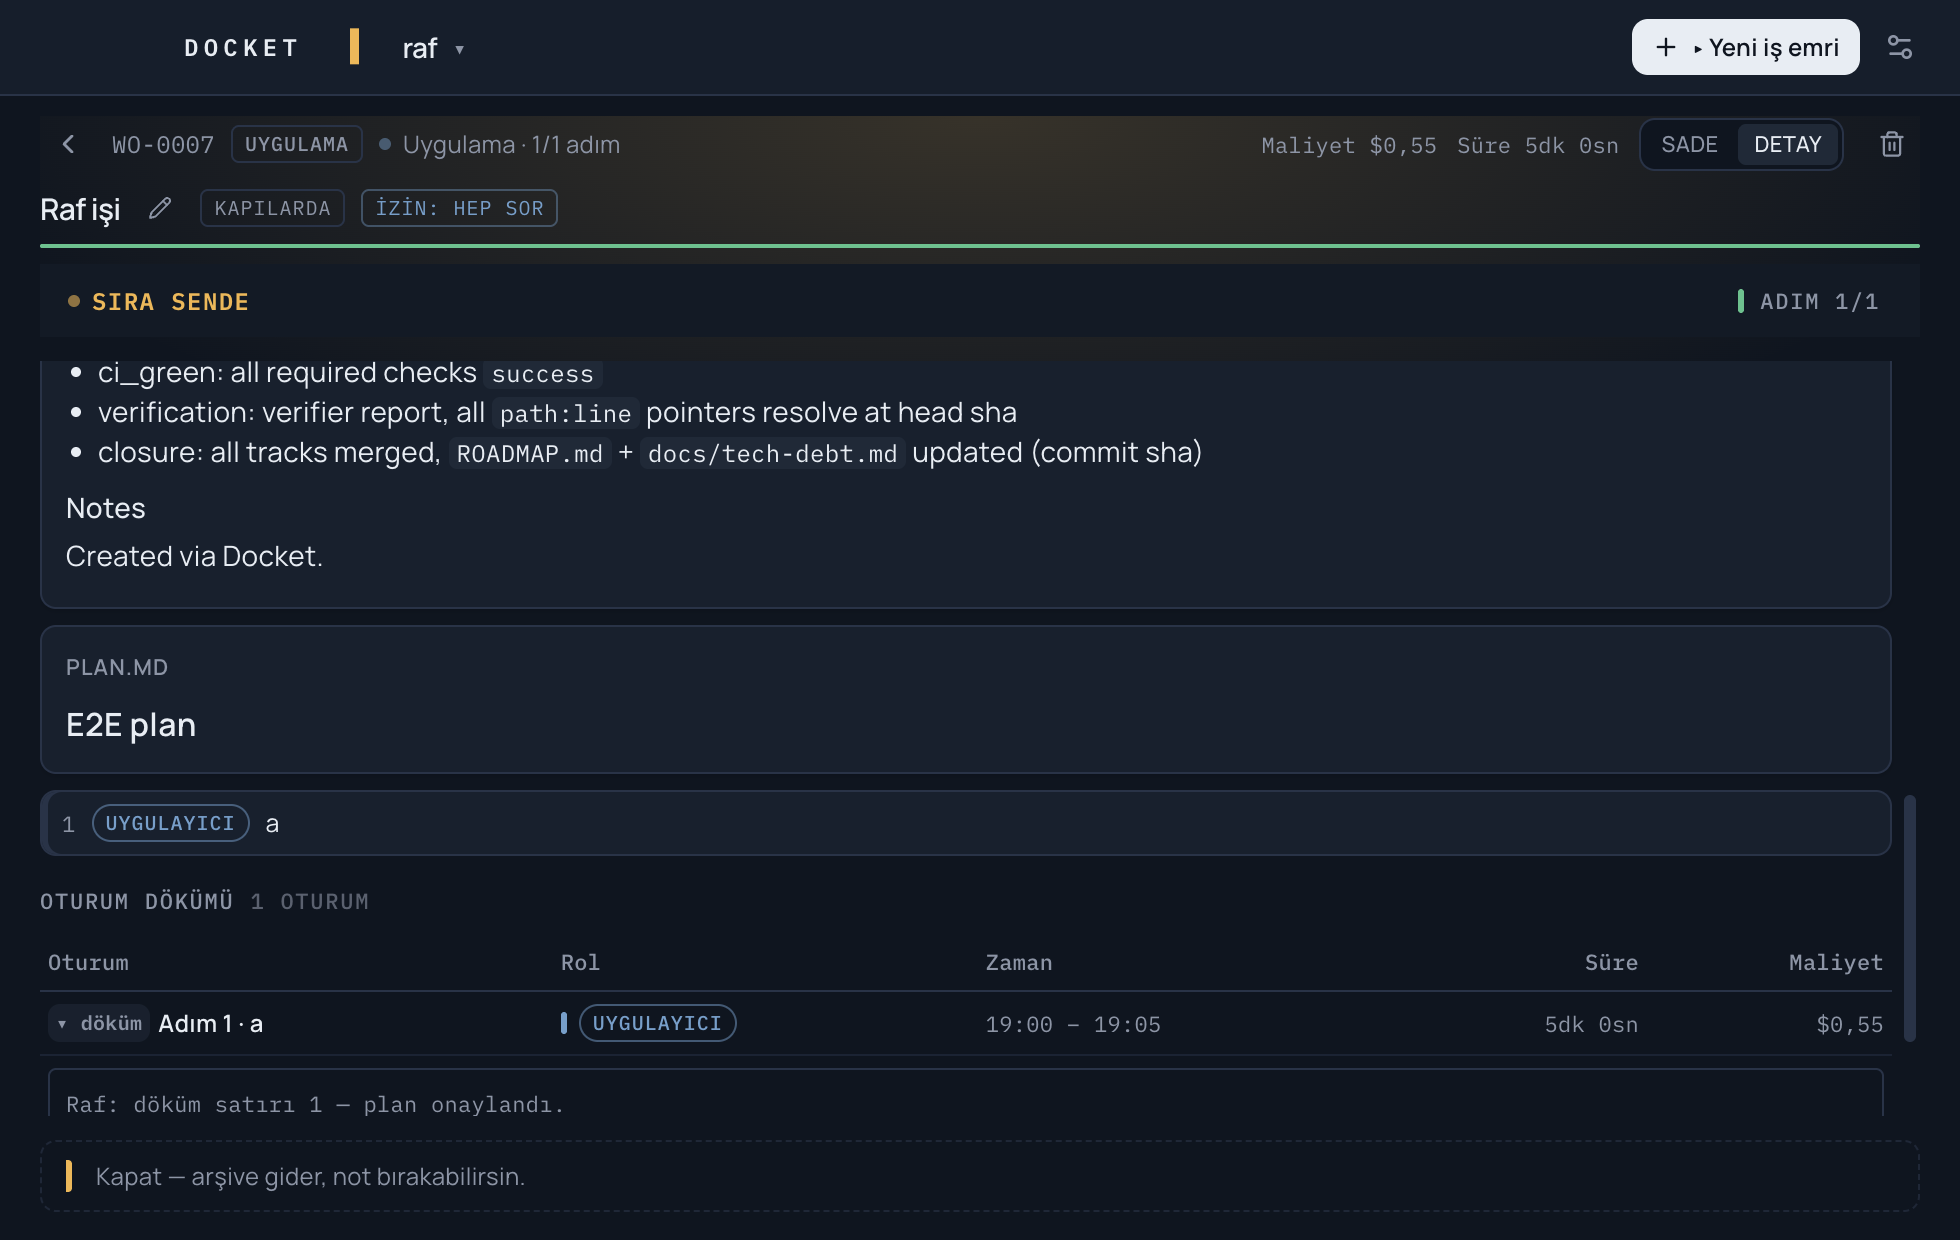
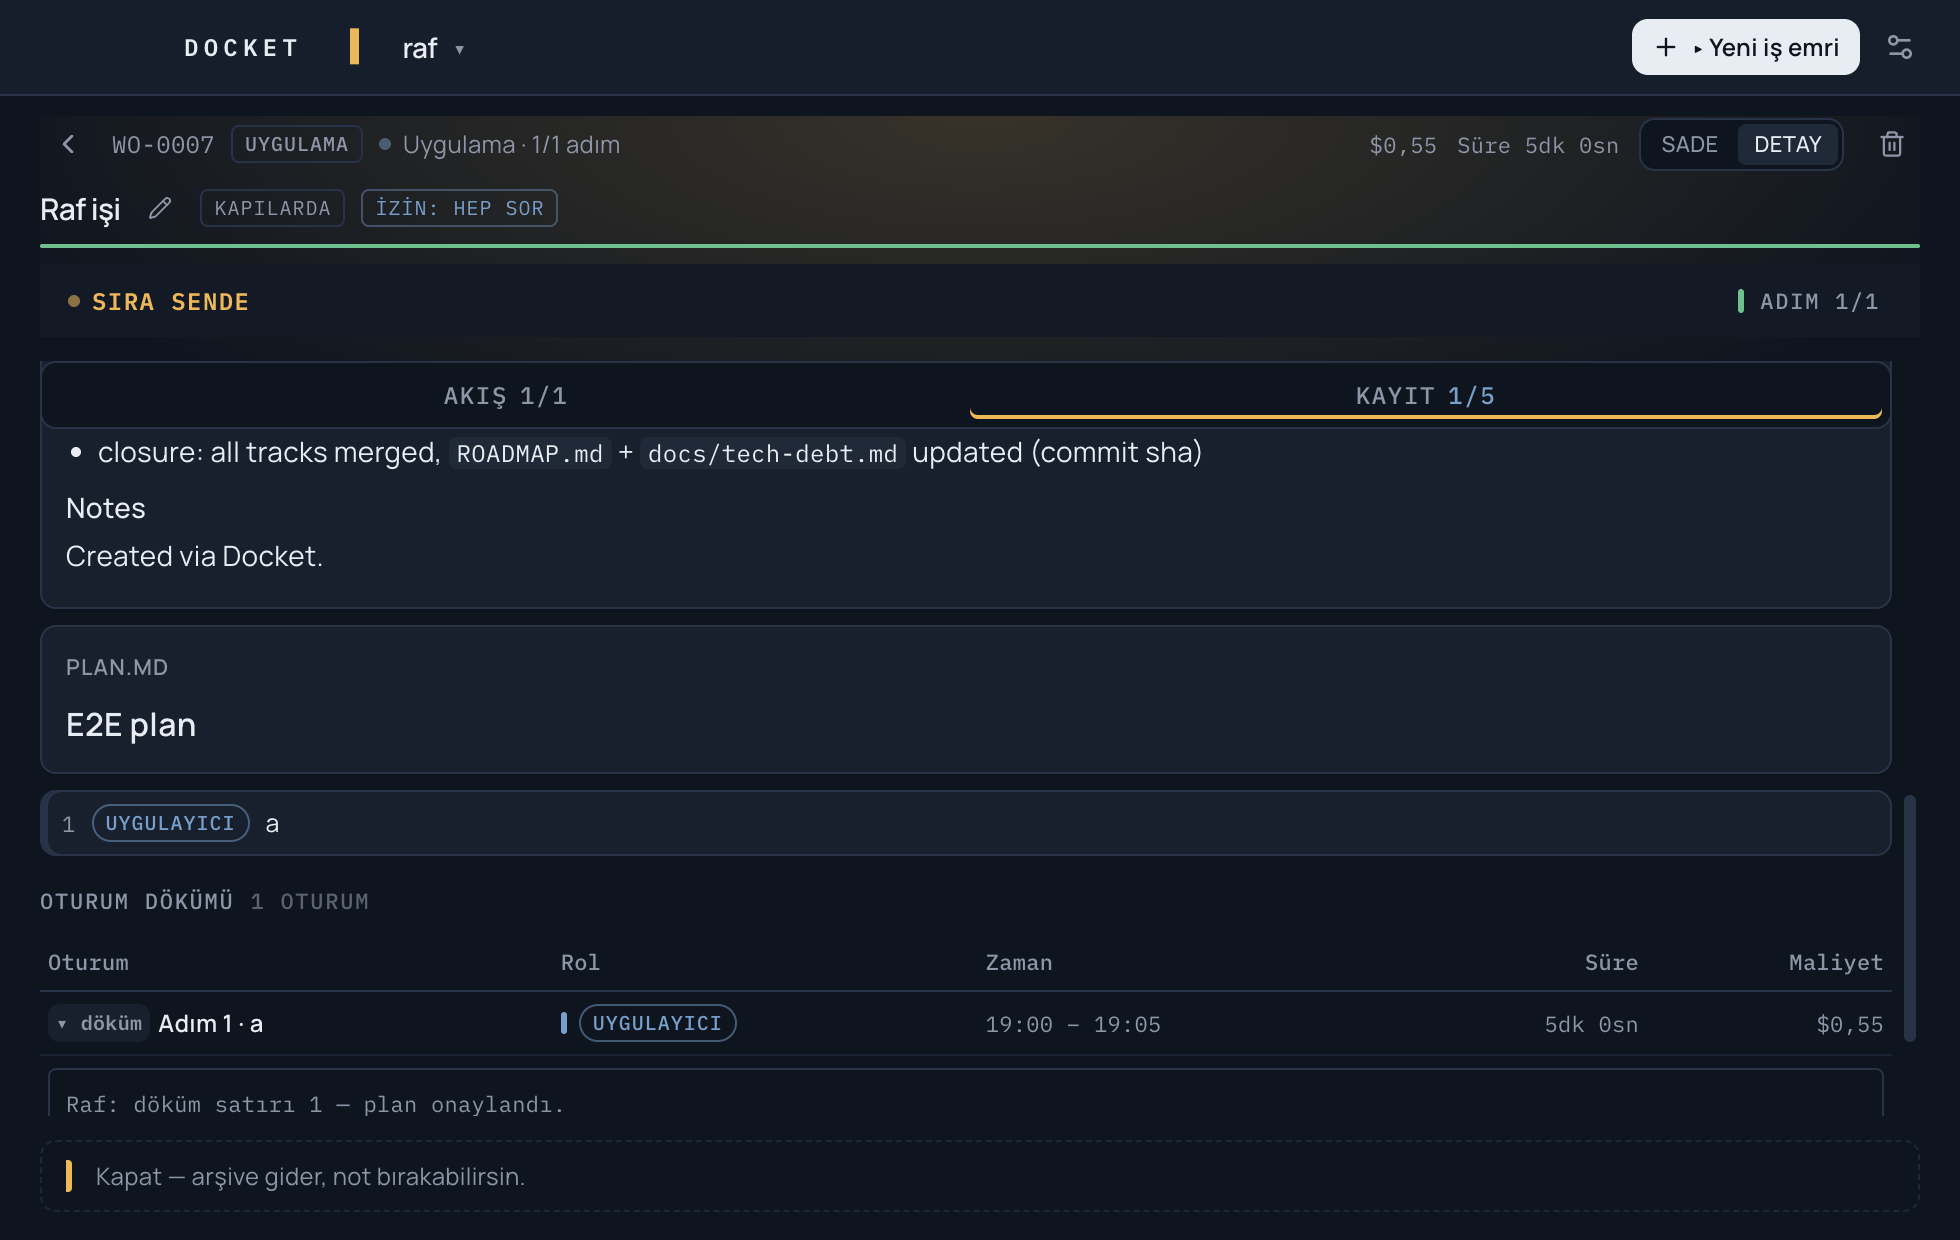
fix(WO-0031f): operator review — the arrival carries its heading, the tab bar pins
Two scroll rulings from the operator's tour:

1. The report arrival targets the ROW, not the report body — the heading
   (idx · role · aim · the state edge) rides along, so reading starts with
   its context instead of under a cut-off title. Every [id] anchor gains
   scroll-margin-top (44px) so nothing the scroll brings you to hides
   under the pinned chrome (the bottom margin already cleared the rail).

2. The Akış|Kayıt bar is STICKY at the scroller top (v5 §04's sticky
   panel-head treatment, finally applied): the surfaces' name no longer
   scrolls away under the content it governs.

E2E: the tab-scroll spec pins the bar (top < 60 while scrolled); the
report-switch spec asserts the row heading is in view alongside its
report (a late row clamps short of the top — too little content follows
it; in-view is the honest contract).

diff --git a/src/ui/components/detail/StepList.tsx b/src/ui/components/detail/StepList.tsx
@@ -148,7 +148,7 @@ export function StepList({
         );
 
         return (
-          <li key={s.idx} data-step-idx={s.idx} className="relative">
+          <li key={s.idx} id={`step-row-${s.idx}`} data-step-idx={s.idx} className="relative">
             <div
               className={cn(
                 'steprow relative flex items-center gap-2 overflow-hidden rounded-md px-2.5 py-1.5',
@@ -180,9 +180,12 @@ export function StepList({
                   aria-controls={`step-${s.idx}-report`}
                   onClick={() => {
                     if (!open) {
+                      // WO-0031f review: the ROW is the arrival target, not the report body — the
+                      // heading (idx · role · aim · the state edge) rides along, reading starts with
+                      // its context. scroll-margin-top on [id] clears the sticky tab bar.
                       requestAnimationFrame(() => {
                         requestAnimationFrame(() => {
-                          document.getElementById(`step-${s.idx}-report`)?.scrollIntoView({ block: 'start' });
+                          document.getElementById(`step-row-${s.idx}`)?.scrollIntoView({ block: 'start' });
                         });
                       });
                     }

diff --git a/src/ui/components/detail/DetailBody.tsx b/src/ui/components/detail/DetailBody.tsx
@@ -74,8 +74,10 @@ export function DetailBody({
     <div className="flex min-h-0 flex-col gap-3.5">
       <Tabs value={tab} onValueChange={onTabChange} className="min-h-0">
         {/* v6 Y-3 / S1-C: two tabs, the signal underline, the active count info-toned — the six-tab
-            world is gone; every old surface has its written home (the v6 §04 yuva tablosu). */}
-        <TabsList className="flowtabs">
+            world is gone; every old surface has its written home (the v6 §04 yuva tablosu). Sticky
+            (operator review): the pair stays pinned at the scroller top — the surfaces' name should
+            not scroll away under the content it governs (v5 §04's sticky panel-head treatment). */}
+        <TabsList className="flowtabs sticky top-0 z-20">
           <TabsTrigger value="flow" className="flowtab">
             {UI.secFlow}
             {flowAside ? <span className="flowtab-n">{flowAside}</span> : null}
